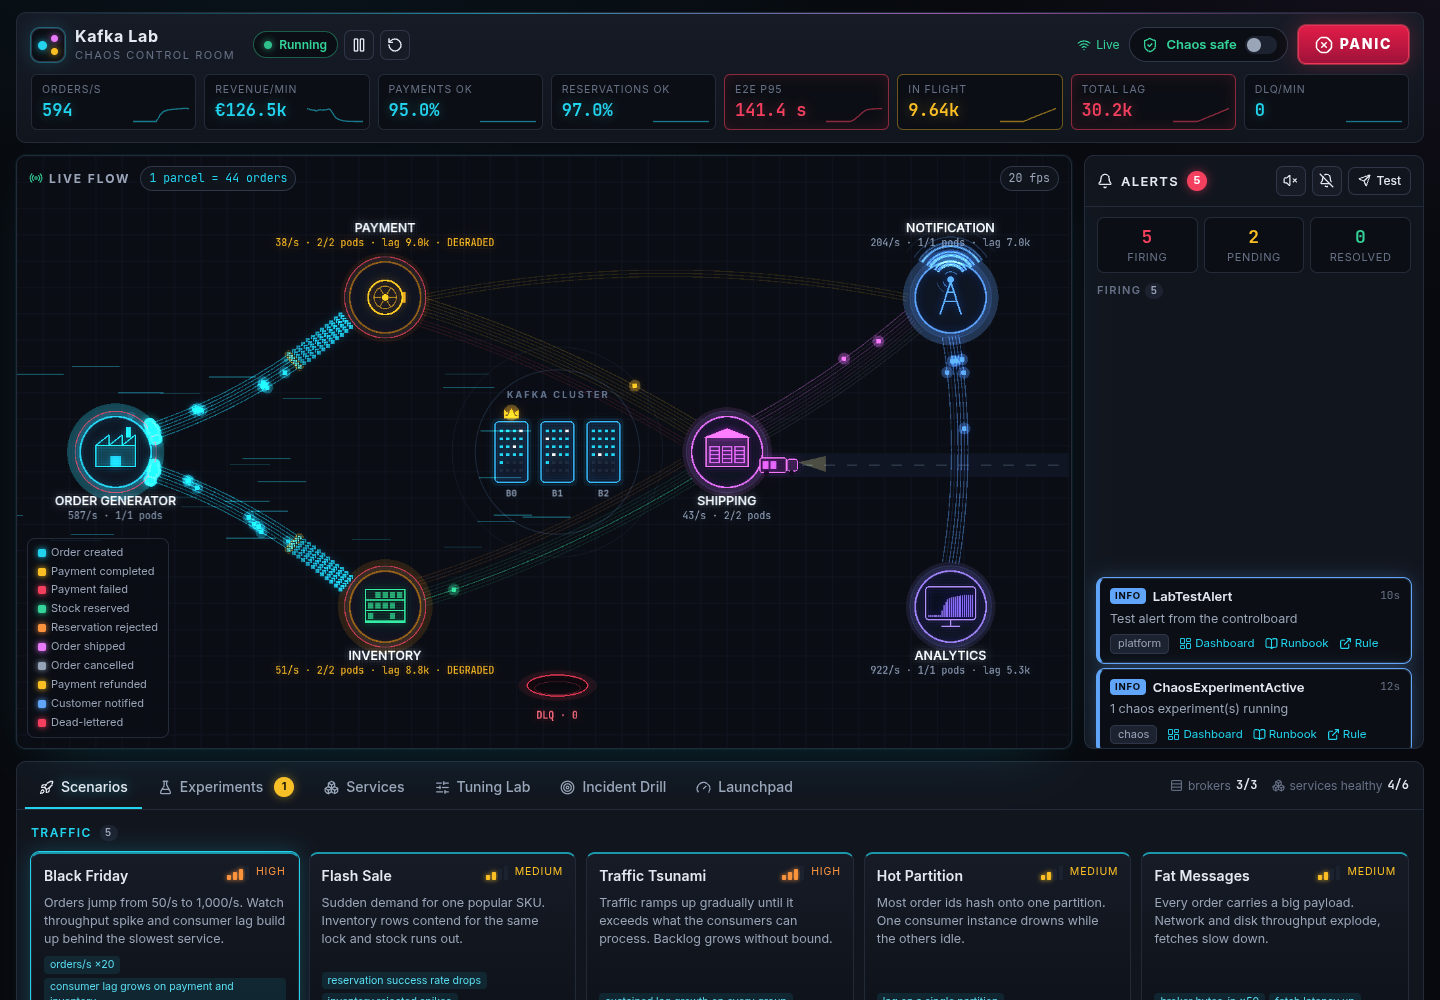
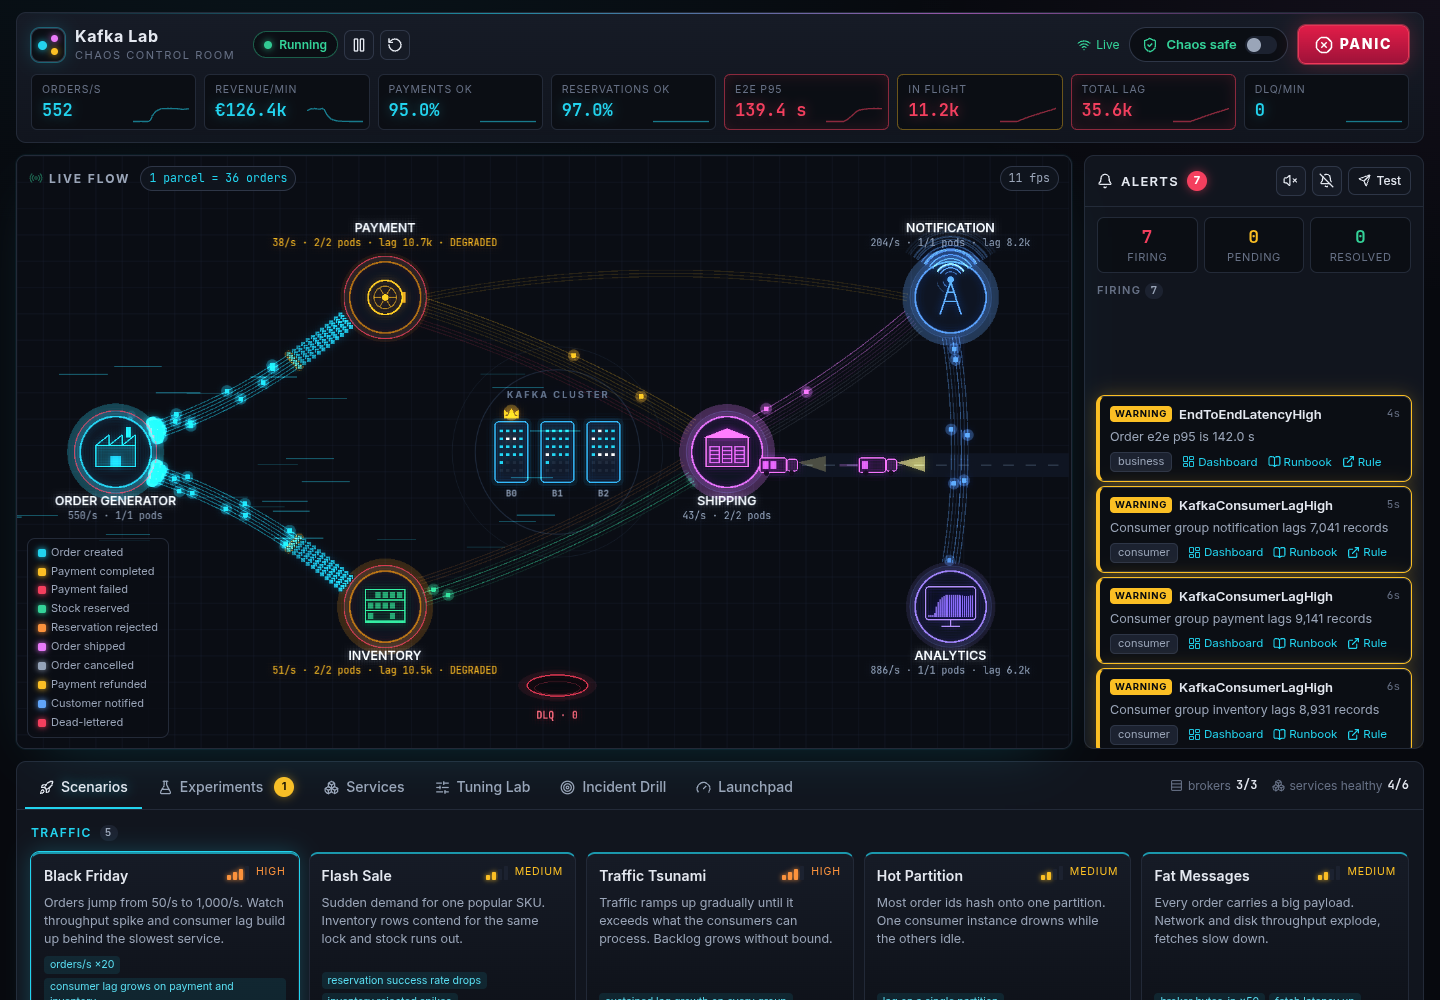
controlboard live view: parcels as pooled sprites from baked textures, static layer redrawn at 30 Hz, 60 fps cap, sleep while off-screen; perf-check and frame-profile scripts

diff --git a/controlboard/web/src/live/render/LiveScene.ts b/controlboard/web/src/live/render/LiveScene.ts
@@ -1,6 +1,13 @@
 /**
  * Procedural "neon logistics hub" renderer. Reads the LiveModel every frame and draws it with
  * Graphics (normal + additive glow layer) and a handful of Text objects. No image assets.
+ *
+ * Cost model (Graphics are re-tessellated on the CPU whenever they are redrawn):
+ *  - slow layer (lane lines, stations, brokers, DLQ, lag piles, smoke/fog) is redrawn at 30 Hz —
+ *    its animations are slow, so this is visually identical to 60 Hz;
+ *  - parcels are pooled Images of two textures baked once (glow + body), tinted per event kind,
+ *    which the WebGL batcher draws in a few calls instead of ~1,200 shapes per frame;
+ *  - only fast motion (conveyor ticks, trucks, effects, chaos weather) is redrawn every frame.
  */
 import Phaser from "phaser";
 import type { EventBus as Bus } from "../EventBus";
@@ -21,6 +28,8 @@ const BG = 0x0a0d14;
 const PANEL = 0x111723;
 const FONT = "Inter Variable, Inter, system-ui, sans-serif";
 const MONO = "JetBrains Mono, ui-monospace, monospace";
+/** Size of the baked parcel textures; scaled down per parcel, so edges stay smooth. */
+const PARCEL_TEX = 32;
 
 function hash(n: number): number {
   const x = Math.sin(n * 127.1 + 311.7) * 43758.5453;
@@ -33,6 +42,10 @@ export class LiveScene extends Phaser.Scene {
   private glow!: Phaser.GameObjects.Graphics;
   private main!: Phaser.GameObjects.Graphics;
   private fx!: Phaser.GameObjects.Graphics;
+  private fast!: Phaser.GameObjects.Graphics;
+  private parcelGlow: Phaser.GameObjects.Image[] = [];
+  private parcelBody: Phaser.GameObjects.Image[] = [];
+  private lastSlow = -Infinity;
   private stationText = new Map<string, { name: Phaser.GameObjects.Text; info: Phaser.GameObjects.Text }>();
   private brokerText: Phaser.GameObjects.Text[] = [];
   private dlqText!: Phaser.GameObjects.Text;
@@ -58,13 +71,15 @@ export class LiveScene extends Phaser.Scene {
     this.bg.generateTexture("hub-bg", WORLD.width, WORLD.height);
     this.bg.destroy();
     this.add.image(0, 0, "hub-bg").setOrigin(0, 0);
-    this.lanesG = this.add.graphics();
-    this.glow = this.add.graphics().setBlendMode(Phaser.BlendModes.ADD);
-    this.main = this.add.graphics();
-    this.fx = this.add.graphics().setBlendMode(Phaser.BlendModes.ADD);
+    this.bakeParcelTextures();
+    this.lanesG = this.add.graphics().setDepth(1);
+    this.glow = this.add.graphics().setBlendMode(Phaser.BlendModes.ADD).setDepth(2);
+    this.main = this.add.graphics().setDepth(4);
+    this.fast = this.add.graphics().setDepth(6);
+    this.fx = this.add.graphics().setBlendMode(Phaser.BlendModes.ADD).setDepth(7);
 
     const text = (x: number, y: number, s: string, size: number, color: string, font = FONT, weight = "600") =>
-      this.add.text(x, y, s, { fontFamily: font, fontSize: `${size}px`, color, fontStyle: weight }).setOrigin(0.5);
+      this.add.text(x, y, s, { fontFamily: font, fontSize: `${size}px`, color, fontStyle: weight }).setOrigin(0.5).setDepth(8);
 
     for (const st of this.model.stations) {
       // Notification and payment labels sit above the station: lanes and lag piles arrive from below.
@@ -103,18 +118,25 @@ export class LiveScene extends Phaser.Scene {
     m.step(delta);
     const t = m.time;
     this.waitingText.setVisible(!m.hasTick);
-    this.drawLanes(t);
-    this.glow.clear();
-    this.main.clear();
+    if (time - this.lastSlow >= 33) {
+      this.lastSlow = time;
+      this.lanesG.clear();
+      this.glow.clear();
+      this.main.clear();
+      this.drawLaneLines();
+      for (const s of m.stations) this.drawStation(s, t);
+      for (const b of m.brokers) this.drawBroker(b, t);
+      this.drawDlq(t);
+      for (const lane of m.lanes) this.drawPile(lane);
+      for (const w of m.weather) if (w.kind === "smoke" || w.kind === "fog") this.drawWeather(w, t);
+    }
+    this.fast.clear();
     this.fx.clear();
-    for (const s of m.stations) this.drawStation(s, t);
-    for (const b of m.brokers) this.drawBroker(b, t);
-    this.drawDlq(t);
-    for (const lane of m.lanes) this.drawPile(lane);
+    this.drawConveyorTicks(t);
     this.drawTrucks();
     this.drawParcels();
     for (const e of m.effects.live) this.drawEffect(e);
-    for (const w of m.weather) this.drawWeather(w, t);
+    for (const w of m.weather) if (w.kind !== "smoke" && w.kind !== "fog") this.drawWeather(w, t);
     // Labels refresh on wall-clock time (twice a second), independent of the model clock.
     if (time - this.lastInfo > 500) {
       this.lastInfo = time;
@@ -152,9 +174,8 @@ export class LiveScene extends Phaser.Scene {
 
   // ------------------------------------------------------------------ lanes & piles
 
-  private drawLanes(t: number): void {
+  private drawLaneLines(): void {
     const g = this.lanesG;
-    g.clear();
     for (const lane of this.model.lanes) {
       const pts = lane.path.points;
       g.lineStyle(1.4, lane.color, 0.14 + lane.activity * 0.35);
@@ -162,16 +183,22 @@ export class LiveScene extends Phaser.Scene {
       g.moveTo(pts[0]!.x, pts[0]!.y);
       for (let i = 1; i < pts.length; i++) g.lineTo(pts[i]!.x, pts[i]!.y);
       g.strokePath();
-      // moving conveyor ticks
-      if (!this.reducedMotion && lane.activity > 0.05) {
-        const step = 0.1;
-        const off = ((t / 2400) % step) / 1;
-        g.fillStyle(lane.color, 0.35 * lane.activity);
-        for (let f = off; f < 1; f += step) {
-          const i = Math.floor(f * (pts.length - 1));
-          const p = pts[i]!;
-          g.fillRect(p.x - 1, p.y - 1, 2, 2);
-        }
+    }
+  }
+
+  /** Moving conveyor ticks (every frame; small rects are cheap). */
+  private drawConveyorTicks(t: number): void {
+    if (this.reducedMotion) return;
+    const g = this.fast;
+    const step = 0.1;
+    const off = (t / 2400) % step;
+    for (const lane of this.model.lanes) {
+      if (lane.activity <= 0.05) continue;
+      const pts = lane.path.points;
+      g.fillStyle(lane.color, 0.35 * lane.activity);
+      for (let f = off; f < 1; f += step) {
+        const p = pts[Math.floor(f * (pts.length - 1))]!;
+        g.fillRect(p.x - 1, p.y - 1, 2, 2);
       }
     }
   }
@@ -370,18 +397,44 @@ export class LiveScene extends Phaser.Scene {
 
   // ------------------------------------------------------------------ moving things
 
+  /** Bakes the two parcel textures (white; tinted per parcel) once. */
+  private bakeParcelTextures(): void {
+    const g = this.make.graphics({}, false);
+    g.fillStyle(0xffffff, 1).fillCircle(PARCEL_TEX / 2, PARCEL_TEX / 2, PARCEL_TEX / 2);
+    g.generateTexture("parcel-glow", PARCEL_TEX, PARCEL_TEX);
+    g.clear();
+    g.fillStyle(0xffffff, 1).fillRoundedRect(0, 0, PARCEL_TEX, PARCEL_TEX, PARCEL_TEX * 0.1875);
+    g.generateTexture("parcel-body", PARCEL_TEX, PARCEL_TEX);
+    g.destroy();
+  }
+
   private drawParcels(): void {
-    for (const p of this.model.parcels.live) {
+    const live = this.model.parcels.live;
+    while (this.parcelBody.length < live.length) {
+      this.parcelGlow.push(this.add.image(0, 0, "parcel-glow").setBlendMode(Phaser.BlendModes.ADD).setDepth(3));
+      this.parcelBody.push(this.add.image(0, 0, "parcel-body").setDepth(5));
+    }
+    for (let i = 0; i < this.parcelBody.length; i++) {
+      const p = live[i];
+      const glow = this.parcelGlow[i]!;
+      const body = this.parcelBody[i]!;
+      if (!p) {
+        if (body.visible) {
+          body.setVisible(false);
+          glow.setVisible(false);
+        }
+        continue;
+      }
       const s = p.size;
-      this.glow.fillStyle(p.color, 0.28 * p.alpha).fillCircle(p.x, p.y, s + 2);
-      this.main.fillStyle(p.color, p.alpha).fillRoundedRect(p.x - s / 2, p.y - s / 2, s, s, 1.5);
+      glow.setVisible(true).setPosition(p.x, p.y).setScale((2 * (s + 2)) / PARCEL_TEX).setTint(p.color).setAlpha(0.28 * p.alpha);
+      body.setVisible(true).setPosition(p.x, p.y).setScale(s / PARCEL_TEX).setTint(p.color).setAlpha(p.alpha);
     }
   }
 
   private drawTrucks(): void {
     for (const tr of this.model.trucks.live) {
       const { x, y } = tr;
-      const g = this.main;
+      const g = this.fast;
       g.fillStyle(0x1f1630, 1).fillRoundedRect(x - 30, y - 11, 40, 22, 3);
       g.lineStyle(1.5, COLORS.magenta, 0.95).strokeRoundedRect(x - 30, y - 11, 40, 22, 3);
       for (let i = 0; i < Math.min(3, tr.load); i++) g.fillStyle(COLORS.magenta, 0.8).fillRect(x - 26 + i * 12, y - 6, 9, 12);
@@ -389,8 +442,8 @@ export class LiveScene extends Phaser.Scene {
       g.lineStyle(1.5, COLORS.magenta, 0.95).strokeRoundedRect(x + 11, y - 9, 16, 18, 4);
       g.fillStyle(0x0a0d14, 1).fillCircle(x - 20, y + 12, 4).fillCircle(x + 18, y + 12, 4);
       const head = tr.state === "departing" ? 0.9 : 0.4;
-      this.glow.fillStyle(0xfef08a, head * 0.6).fillTriangle(x + 27, y - 4, x + 70, y - 14, x + 70, y + 10);
-      if (tr.state === "departing") this.glow.fillStyle(COLORS.magenta, 0.25).fillRect(x - 60, y - 2, 28, 4);
+      this.fx.fillStyle(0xfef08a, head * 0.6).fillTriangle(x + 27, y - 4, x + 70, y - 14, x + 70, y + 10);
+      if (tr.state === "departing") this.fx.fillStyle(COLORS.magenta, 0.25).fillRect(x - 60, y - 2, 28, 4);
     }
   }
 

diff --git a/controlboard/web/scripts/frame-profile.ts b/controlboard/web/scripts/frame-profile.ts
@@ -1,0 +1,31 @@
+/**
+ * Per-frame CPU profile of the live view: wraps the scene's update() (our drawing code) and the
+ * renderer's render() (Phaser's WebGL submission) and reports average milliseconds per frame.
+ * Independent of how fast the (software) GPU rasterises. Usage: BOARD_URL=... bun run scripts/frame-profile.ts
+ */
+import { chromium } from "playwright-core";
+
+const url = process.env.BOARD_URL ?? "http://board.localhost:8080/";
+const browser = await chromium.launch({
+  executablePath: process.env.CHROME_PATH ?? "/usr/bin/chromium",
+  args: ["--use-angle=swiftshader", "--enable-unsafe-swiftshader", "--ignore-gpu-blocklist"],
+});
+const page = await browser.newPage({ viewport: { width: 1440, height: 1000 } });
+await page.goto(url, { waitUntil: "domcontentloaded" });
+await page.waitForTimeout(8000);
+const result = await page.evaluate(async () => {
+  type Fn = (...a: unknown[]) => void;
+  type Lab = { game: { scene: { scenes: { sys: { sceneUpdate: Fn } }[] }; loop: { callback: Fn } } };
+  const lab = (globalThis as unknown as { __kafkaLab: Lab }).__kafkaLab;
+  const sys = lab.game.scene.scenes[0]!.sys;
+  const loop = lab.game.loop;
+  let upd = 0, total = 0, frames = 0;
+  const u0 = sys.sceneUpdate;
+  sys.sceneUpdate = function (this: unknown, ...a: unknown[]) { const s = performance.now(); u0.apply(this, a); upd += performance.now() - s; };
+  const c0 = loop.callback;
+  loop.callback = (...a: unknown[]) => { const s = performance.now(); c0(...a); total += performance.now() - s; frames++; };
+  await new Promise((r) => setTimeout(r, 15000));
+  return { frames, update: upd / frames, render: (total - upd) / frames };
+});
+console.log(`frames ${result.frames} · update ${result.update.toFixed(2)} ms/frame · render+rest ${result.render.toFixed(2)} ms/frame`);
+await browser.close();

diff --git a/controlboard/web/scripts/perf-check.ts b/controlboard/web/scripts/perf-check.ts
@@ -1,0 +1,35 @@
+/**
+ * Rendering cost of the live controlboard: opens BOARD_URL (default http://board.localhost:8080)
+ * in headless Chromium, lets it settle, then reports main-thread time per wall-clock second over
+ * a 20 s window (Chrome DevTools Performance metrics). Lower is better; compare before/after.
+ * Usage: bun run perf-check
+ */
+import { chromium } from "playwright-core";
+
+const url = process.env.BOARD_URL ?? "http://board.localhost:8080/";
+const browser = await chromium.launch({
+  executablePath: process.env.CHROME_PATH ?? "/usr/bin/chromium",
+  args: ["--use-angle=swiftshader", "--enable-unsafe-swiftshader", "--ignore-gpu-blocklist"],
+});
+const page = await browser.newPage({ viewport: { width: 1440, height: 1000 } });
+const cdp = await page.context().newCDPSession(page);
+await cdp.send("Performance.enable");
+await page.goto(url, { waitUntil: "domcontentloaded" });
+await page.waitForTimeout(8000);
+
+type Metrics = Record<string, number>;
+const read = async (): Promise<Metrics> => {
+  const { metrics } = (await cdp.send("Performance.getMetrics")) as { metrics: { name: string; value: number }[] };
+  return Object.fromEntries(metrics.map((m) => [m.name, m.value]));
+};
+const window = 20;
+const a = await read();
+await page.waitForTimeout(window * 1000);
+const b = await read();
+const fps = await page.evaluate(() => {
+  const lab = (globalThis as unknown as { __kafkaLab?: { game: { loop: { actualFps: number } } } }).__kafkaLab;
+  return lab?.game.loop.actualFps ?? 0;
+});
+const per = (k: string) => (((b[k] ?? 0) - (a[k] ?? 0)) / window) * 1000;
+console.log(`script ${per("ScriptDuration").toFixed(0)} ms/s · task ${per("TaskDuration").toFixed(0)} ms/s · layout ${per("LayoutDuration").toFixed(0)} ms/s · fps ${fps.toFixed(0)}`);
+await browser.close();

diff --git a/controlboard/web/src/live/render/game.ts b/controlboard/web/src/live/render/game.ts
@@ -20,7 +20,8 @@ export function startLiveGame(parent: HTMLElement, bus: typeof Bus): { destroy()
     backgroundColor: "#0a0d14",
     antialias: true,
     banner: false,
-    fps: { target: 60, smoothStep: true },
+    // limit: never render faster than 60 fps (120/144 Hz monitors would otherwise double the work).
+    fps: { target: 60, limit: 60, smoothStep: true },
     scale: { mode: Phaser.Scale.FIT, autoCenter: Phaser.Scale.CENTER_BOTH },
     scene,
   });
@@ -37,16 +38,25 @@ export function startLiveGame(parent: HTMLElement, bus: typeof Bus): { destroy()
     bus.on("experiments", ({ experiments, categories }) => model.applyExperiments(experiments, categories)),
   ];
 
-  const onVisibility = () => {
-    if (document.hidden) game.loop.sleep();
+  // Sleep while the tab is hidden or the live view is scrolled out of sight.
+  let onScreen = true;
+  const sync = () => {
+    if (document.hidden || !onScreen) game.loop.sleep();
     else game.loop.wake();
   };
+  const onVisibility = () => sync();
   document.addEventListener("visibilitychange", onVisibility);
+  const observer = typeof IntersectionObserver === "undefined" ? null : new IntersectionObserver((entries) => {
+    onScreen = entries.some((e) => e.isIntersecting);
+    sync();
+  });
+  observer?.observe(parent);
 
   return {
     destroy() {
       offs.forEach((off) => off());
       document.removeEventListener("visibilitychange", onVisibility);
+      observer?.disconnect();
       bus.emit("hover", null);
       game.destroy(true);
     },
